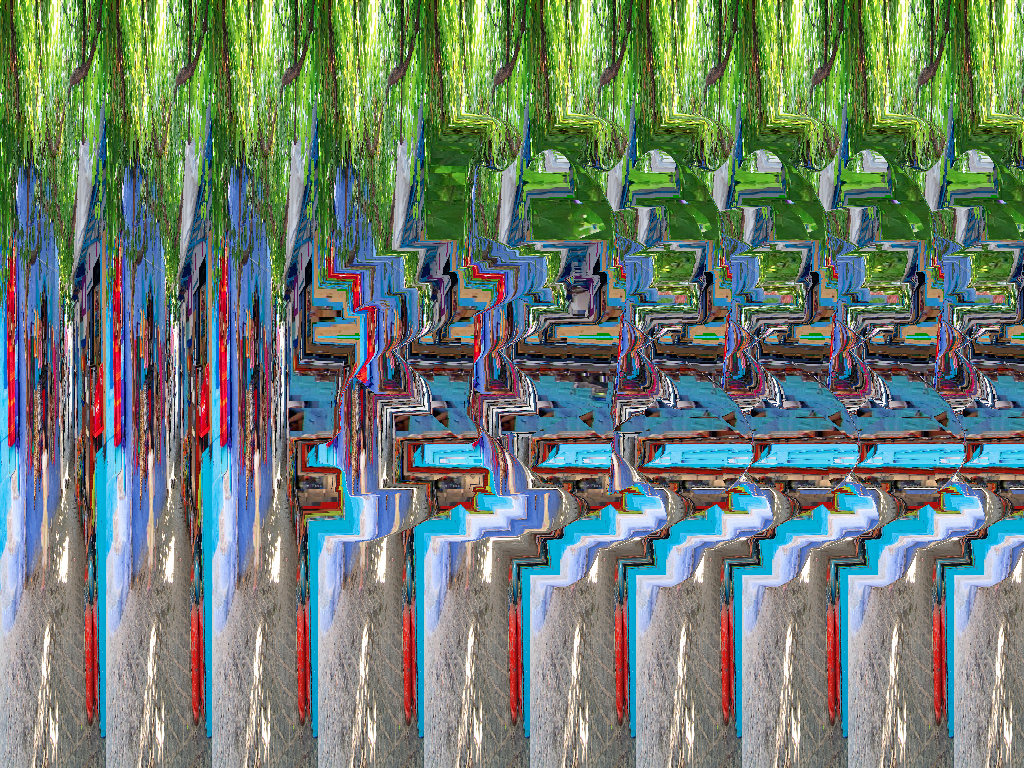
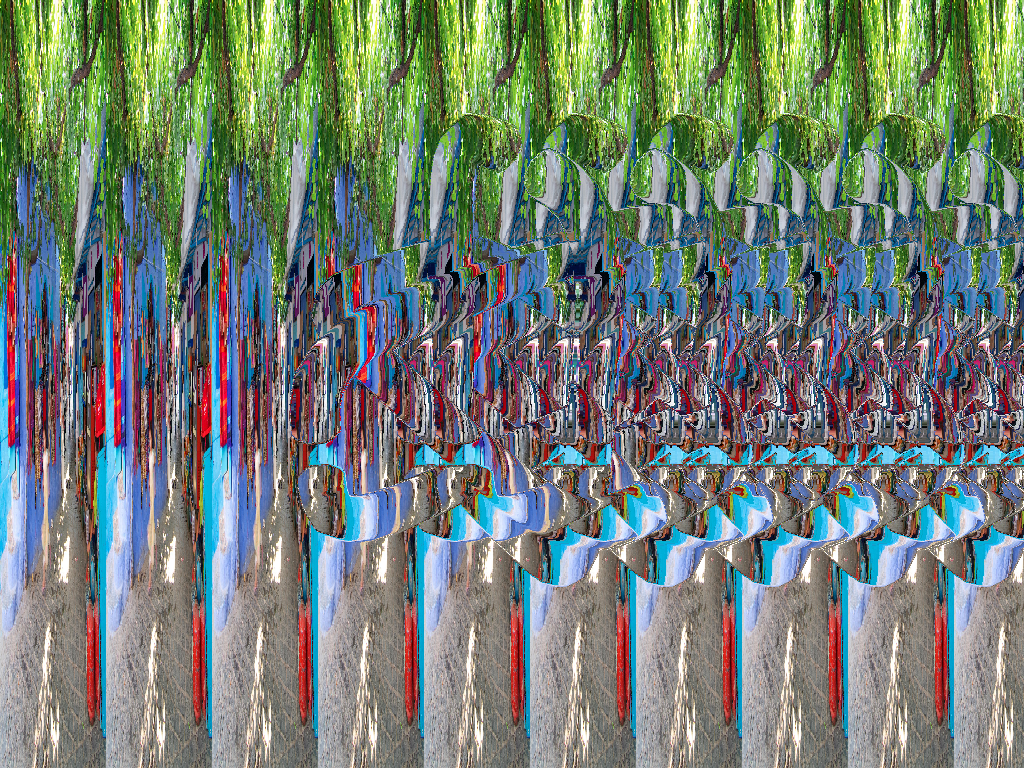
Crisper artifcat-fixing for wall-eyed viewing.

diff --git a/imagic/imagic.go b/imagic/imagic.go
@@ -60,11 +60,12 @@ func magicInflateRow(dm, bg image.Image, config Config, y int) imageRow {
 	initialWidth := 0
 	for ; sourceIndexes[initialWidth] < 0; initialWidth++ {
 	}
+	bgIndexStep := bgWidth / initialWidth
 
 	// Map background onto the first section on left.
 	var bgIndexes = make([]int, dmWidth)
 	for x := 0; x < initialWidth; x++ {
-		bgIndexes[x] = x * bgWidth / initialWidth
+		bgIndexes[x] = x * bgIndexStep
 	}
 
 	// For the rest, copy pixel index from left to right.
@@ -73,9 +74,14 @@ func magicInflateRow(dm, bg image.Image, config Config, y int) imageRow {
 		if si := sourceIndexes[x]; si < 0 {
 			// If the source index is negative, just use the next bg pixel.
 			bgIndexes[x] = bgIndexes[x-1] + 1
-		} else if usedBgIndexes[si] {
+		} else if usedBgIndexes[si] && !config.CrossEyed {
 			// This removes some phantom artifacts for wall-eyed viewing.
-			bgIndexes[x] = bgIndexes[x-1] + 1
+			// Previous pixels that have been used for the left eye previously
+			// should not be used again here. That would make this right
+			// eye and the previous right eye compete for the same left pixel.
+			// This means the brain can interpret two different depths,
+			// depending on which pixel the right eye chooses.
+			bgIndexes[x] = bgIndexes[x-1] + 1 // bgIndexStep
 		} else {
 			bgIndexes[x] = bgIndexes[si]
 			usedBgIndexes[si] = true
